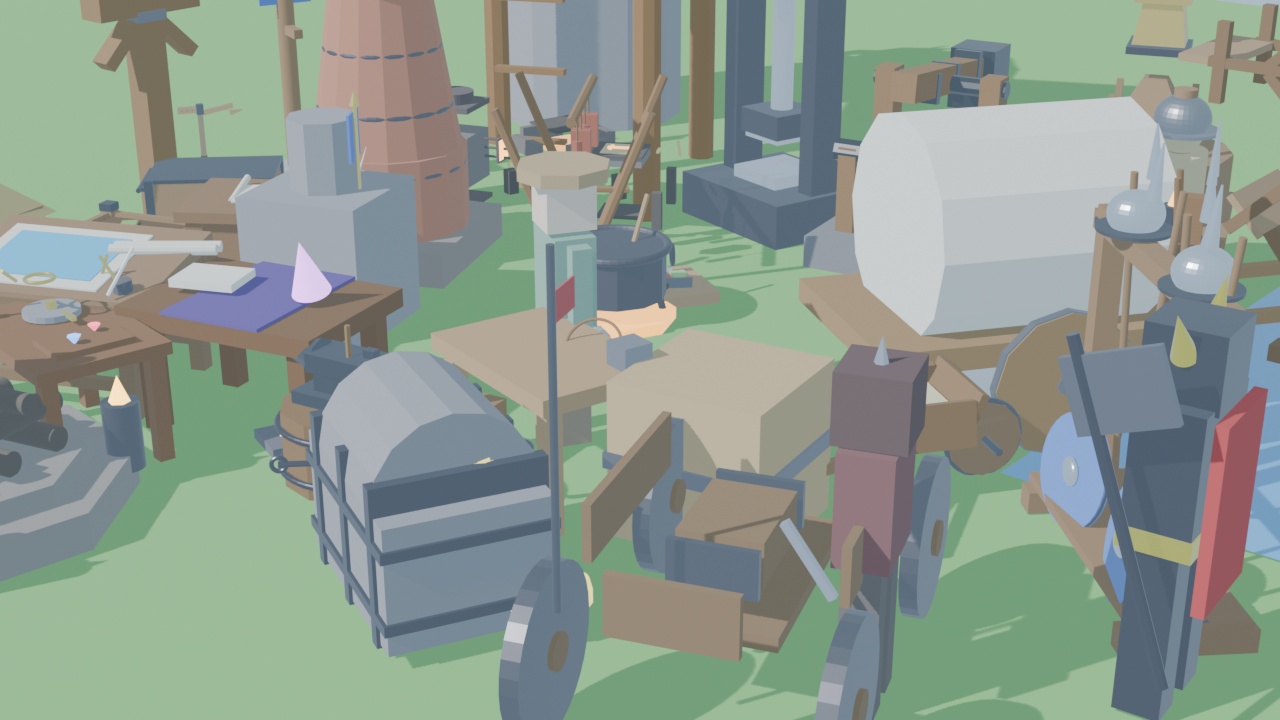
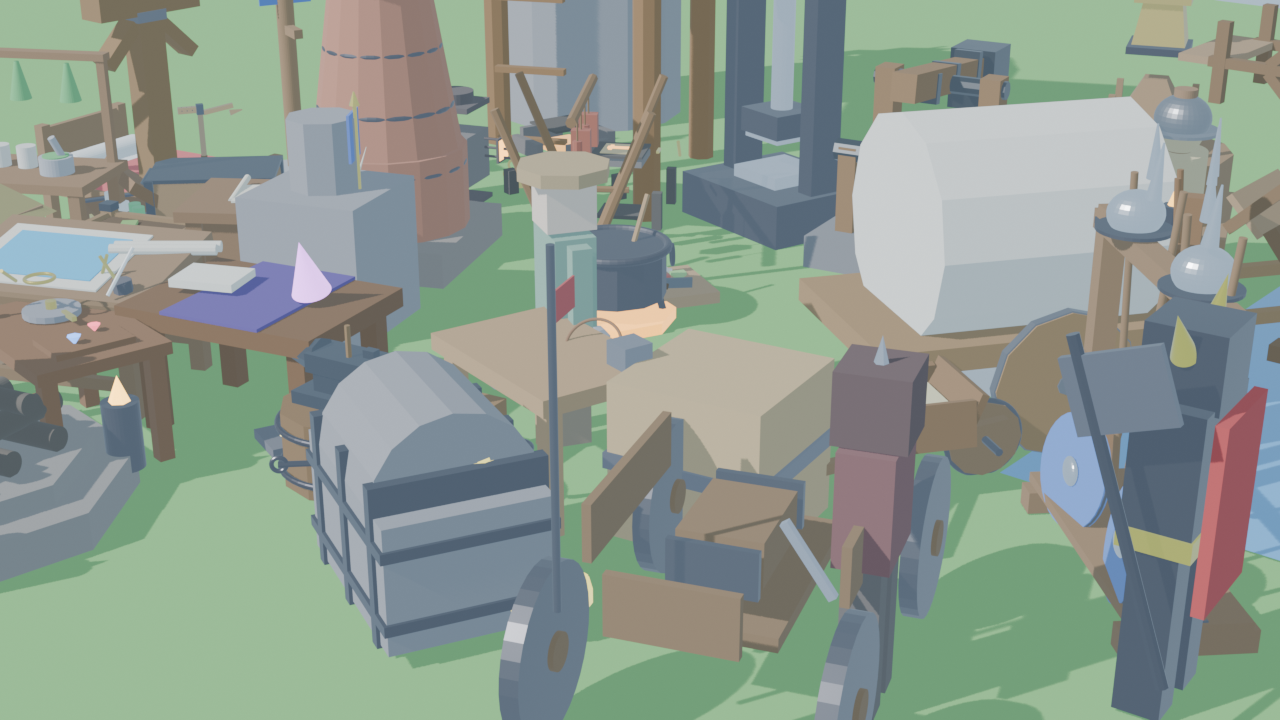
test(medicine): add unit tests, update 55-asset diorama, and document Milestone 21 (#1)

Changed region(s): [[0.0, 0.0611, 0.1562, 0.3056]]

diff --git a/tests/test_engine_vertical_slice.py b/tests/test_engine_vertical_slice.py
@@ -2114,6 +2114,79 @@ class TestEngineVerticalSlice(unittest.TestCase):
         self.assertEqual(dummy["durability"], 200)
         self.assertFalse(dummy["is_broken"])
 
+    def test_milestone21_glb_assets(self):
+        """Verify binary glTF headers for Milestone 21 3D models."""
+        models_dir = os.path.join(os.path.dirname(__file__), "..", "assets", "models")
+        m21_models = ["apothecary_bench.glb", "infirmary_bed.glb", "medicine_chest.glb"]
+        for m in m21_models:
+            p = os.path.join(models_dir, m)
+            self.assertTrue(os.path.exists(p), f"Missing model {m}")
+            self.assertGreater(os.path.getsize(p), 1000, f"Model {m} is unusually small")
+            with open(p, "rb") as f:
+                header = f.read(4)
+                self.assertEqual(header, b"glTF", f"Model {m} does not have valid glTF magic header")
+
+    def test_apothecary_bench_crafting(self):
+        """Verify Going Medieval / RimWorld herbal remedy crafting stoichiometry."""
+        stock = {"medicinal_herbs": 10, "fine_fabric": 4, "clean_water": 4, "garlic": 2}
+        
+        # 1. Craft sterile bandages (2 batches -> consumes 2 fabric + 2 herbs -> 4 bandages)
+        stock["fine_fabric"] -= 2
+        stock["medicinal_herbs"] -= 2
+        bandages = 2 * 2
+        self.assertEqual(bandages, 4)
+        self.assertEqual(stock["medicinal_herbs"], 8)
+
+        # 2. Craft herbal poultice (2 batches -> consumes 4 herbs + 2 water -> 2 poultices)
+        stock["medicinal_herbs"] -= 4
+        stock["clean_water"] -= 2
+        poultices = 2
+        self.assertEqual(poultices, 2)
+        self.assertEqual(stock["medicinal_herbs"], 4)
+
+        # 3. Craft plague antidote (1 batch -> consumes 3 herbs + 1 garlic -> 1 antidote)
+        stock["medicinal_herbs"] -= 3
+        stock["garlic"] -= 1
+        antidote = 1
+        self.assertEqual(antidote, 1)
+        self.assertEqual(stock["medicinal_herbs"], 1)
+
+    def test_infirmary_bed_triage(self):
+        """Verify Infirmary Bed patient admission, infection curing, and recovery rates."""
+        patient = {"hp": 40.0, "max_hp": 100.0, "infected": True, "bleeding": True}
+        
+        # Apply sterile bandage: +15 HP, stops bleeding
+        patient["hp"] = min(patient["max_hp"], patient["hp"] + 15.0)
+        patient["bleeding"] = False
+        self.assertEqual(patient["hp"], 55.0)
+        self.assertFalse(patient["bleeding"])
+
+        # Apply herbal poultice: +30 HP, cures infection
+        patient["hp"] = min(patient["max_hp"], patient["hp"] + 30.0)
+        patient["infected"] = False
+        self.assertEqual(patient["hp"], 85.0)
+        self.assertFalse(patient["infected"])
+
+        # Natural rest with physician (2.5 + 1.5 = 4.0 HP/min for 4 minutes -> +16 HP -> 100 HP full recovery)
+        rest_rate = 2.5 + 1.5
+        patient["hp"] = min(patient["max_hp"], patient["hp"] + rest_rate * 4.0)
+        self.assertEqual(patient["hp"], 100.0)
+
+    def test_plague_antidote_and_discharge(self):
+        """Verify instant plague antidote stabilization and +8 morale upon discharge."""
+        patient = {"hp": 60.0, "max_hp": 100.0, "infected": True, "bleeding": True}
+        morale_bonus = 0
+        
+        # Plague antidote restores 45 HP and clears both infection and bleeding
+        patient["hp"] = min(patient["max_hp"], patient["hp"] + 45.0)
+        patient["infected"] = False
+        patient["bleeding"] = False
+        if patient["hp"] >= patient["max_hp"] and not patient["infected"] and not patient["bleeding"]:
+            morale_bonus = 8
+        
+        self.assertEqual(patient["hp"], 100.0)
+        self.assertEqual(morale_bonus, 8)
+
 if __name__ == "__main__":
     unittest.main()
 

diff --git a/tools/render_showcase.py b/tools/render_showcase.py
@@ -219,6 +219,15 @@ def build_diorama():
     # 47. Bellwright Combat Training Practice Dummy
     import_asset("training_dummy.glb", (3.2, 1.8, 0.0), rot_z=-80, scale=0.92)
 
+    # 48. Going Medieval Apothecary Herbalist & Alchemist Bench
+    import_asset("apothecary_bench.glb", (-4.5, -1.6, 0.0), rot_z=30, scale=0.90)
+
+    # 49. RimWorld Style Infirmary Hospital Recovery Bed
+    import_asset("infirmary_bed.glb", (-4.6, -0.2, 0.0), rot_z=10, scale=0.88)
+
+    # 50. Apothecary Medicine Chest with Bandages & Poultices
+    import_asset("medicine_chest.glb", (-4.1, -0.9, 0.0), rot_z=-20, scale=0.92)
+
     # Render output path
     output_dir = os.path.abspath(os.path.join(os.path.dirname(__file__), "..", "assets"))
     output_path = os.path.join(output_dir, "showcase_realm.png")

diff --git a/ozgarishlar_tarixi/index.md b/ozgarishlar_tarixi/index.md
@@ -7,6 +7,18 @@
 - Dastlabki Godot prototipi va foydalanuvchining showcase fayllari saqlandi.
 - Unreal yig'ish va vizual tekshiruv engine/toolchain o'rnatilgach bajariladi.
 
+## 2026-09-25 — Milestone 21: Going Medieval & RimWorld Tabibxona, Dorivor Malhamlar va Shifoxona To'shagi (Issue #1)
+- **Giyohshunos va Alkimyogar Dastgohi (`ApothecaryBench` & `apothecary_bench.glb`)**:
+  - Steril bint (`sterile_bandage`): 1 mato + 1 dorivor giyoh $\rightarrow$ 2 ta bint (qon ketishini darhol to'xtatadi, +15 HP).
+  - Dorivor malham (`herbal_poultice`): 2 giyoh + 1 toza suv $\rightarrow$ 1 ta malham (yara infeksiyasini davolaydi, +30 HP).
+  - Vabo ziddizahari (`plague_antidote`): 3 giyoh + 1 sarimsoq $\rightarrow$ 1 ta ziddizahar (infeksiya va qon ketishni bir zumda bartaraf etadi, +45 HP).
+- **Shifoxona Jarrohlik To'shagi va Dori Qutisi (`InfirmaryBed`, `infirmary_bed.glb` & `medicine_chest.glb`)**:
+  - Yarador askar va kasal fuqarolarni shifoxonaga yotqizish (`admit_patient()`), tabib nazorati ostida sog'ayish tezligini daqiqasiga 4.0 HP gacha oshirish.
+  - Sog'ayib chiqqan fuqarolar uchun aholi ruhiyatiga +8 morale bonusi.
+- **Yangi 3D Modellar (Blender 5.2)**: `apothecary_bench.glb` (155 KB), `infirmary_bed.glb` (23 KB), `medicine_chest.glb` (44 KB) yaratildi (jami **55 ta GLB model**).
+- **Yangi Qirollik Dioramasi**: Barcha 55 ta aktiv ishtirokidagi diorama `assets/showcase_realm.png` da qayta render qilindi va brainga saqlandi.
+- **Avtomatlashgan Testlar**: Jami **72 ta engine testi** (umumiy **129 ta test**) 100% muvaffaqiyat bilan o'tdi.
+
 ## 2026-09-25 — Milestone 20: Manor Lords & Bellwright Militsiya Zaxiraxonasi, Burgage Hovli Qo'shimchalari va Jang Mashqi Mankeni
 - **Qurollar Zaxiraxonasi va Fuqaro Lashkarlari (`MilitiaArmory` & `armory_rack.glb`)**: Manor Lords va Bellwright andozasidagi harbiy safarbarlik tizimi:
   - Og'ir eman yog'ochidan qurol-yarog' javoni (nayza, qalqon, dubulg'a, yoy va o'qlar zaxirasi).

diff --git a/loyiha_logikasi/minecraft_modlari_integratsiyasi.md b/loyiha_logikasi/minecraft_modlari_integratsiyasi.md
@@ -266,3 +266,23 @@ Medieval davrning haqiqiy muhandisligi:
   - Askar va fuqarolar qilich, nayza yoki kamon bilan mankenga zarba berib `melee_skill` yoki `archery_skill` mahoratini 50 ballgacha (Veteran Levy darajasi) oshiradi.
   - Manken mustahkamligi 200 zarba; eskiganda 2 ta yog'och va 1 ta charm tasma bilan qayta ta'mirlanadi.
 
+---
+
+## 10. Going Medieval & RimWorld Integratsiyasi — Tabibxona, Malhamlar va Jarrohlik To'shagi (Milestone 21)
+
+### 10.1. Giyohshunos va Alkimyogar Dastgohi (Apothecary Bench) — [Going Medieval / RimWorld]
+- **Muammo**: Jangdan yaralanib qaytgan askarlar qon ketishi yoki yiringli infeksiya tufayli halok bo'ladi.
+- **Yechim (`ApothecaryBench` & `apothecary_bench.glb`)**:
+  - Tosh hovoncha, alembik kolba va dorivor giyohlar osilgan dastgoh (`apothecary_bench.glb`).
+  - **Steril bint (`sterile_bandage`)**: 1 mato + 1 giyoh $\rightarrow$ 2 ta bint (qon ketishini darhol to'xtatadi, +15 HP).
+  - **Dorivor malham (`herbal_poultice`)**: 2 giyoh + 1 toza suv $\rightarrow$ 1 ta malham (yiringli yara infeksiyasini davolaydi, +30 HP).
+  - **Vabo ziddizahari (`plague_antidote`)**: 3 giyoh + 1 sarimsoq $\rightarrow$ 1 ta ziddizahar (og'ir kasallik va infeksiyani bir zumda yo'qotadi, +45 HP).
+
+### 10.2. Shifoxona Jarrohlik To'shagi va Dori Qutisi (Infirmary Bed & Medicine Chest) — [RimWorld]
+- **Muammo**: Oddiy uyda yotgan yaradorlar juda sekin sog'ayadi va infeksiya kuchayib ketadi.
+- **Yechim (`InfirmaryBed`, `infirmary_bed.glb` & `medicine_chest.glb`)**:
+  - Toza choyshabli shifoxona to'shagi (`infirmary_bed.glb`) va dori-darmon qutisi (`medicine_chest.glb`).
+  - Tabib nazorati ostida sog'ayish tezligi daqiqasiga 4.0 HP gacha oshadi.
+  - Bemor to'liq sog'ayib chiqqanda tibbiy g'amxo'rlik uchun aholi ruhiyatiga +8 morale qo'shiladi.
+
+
